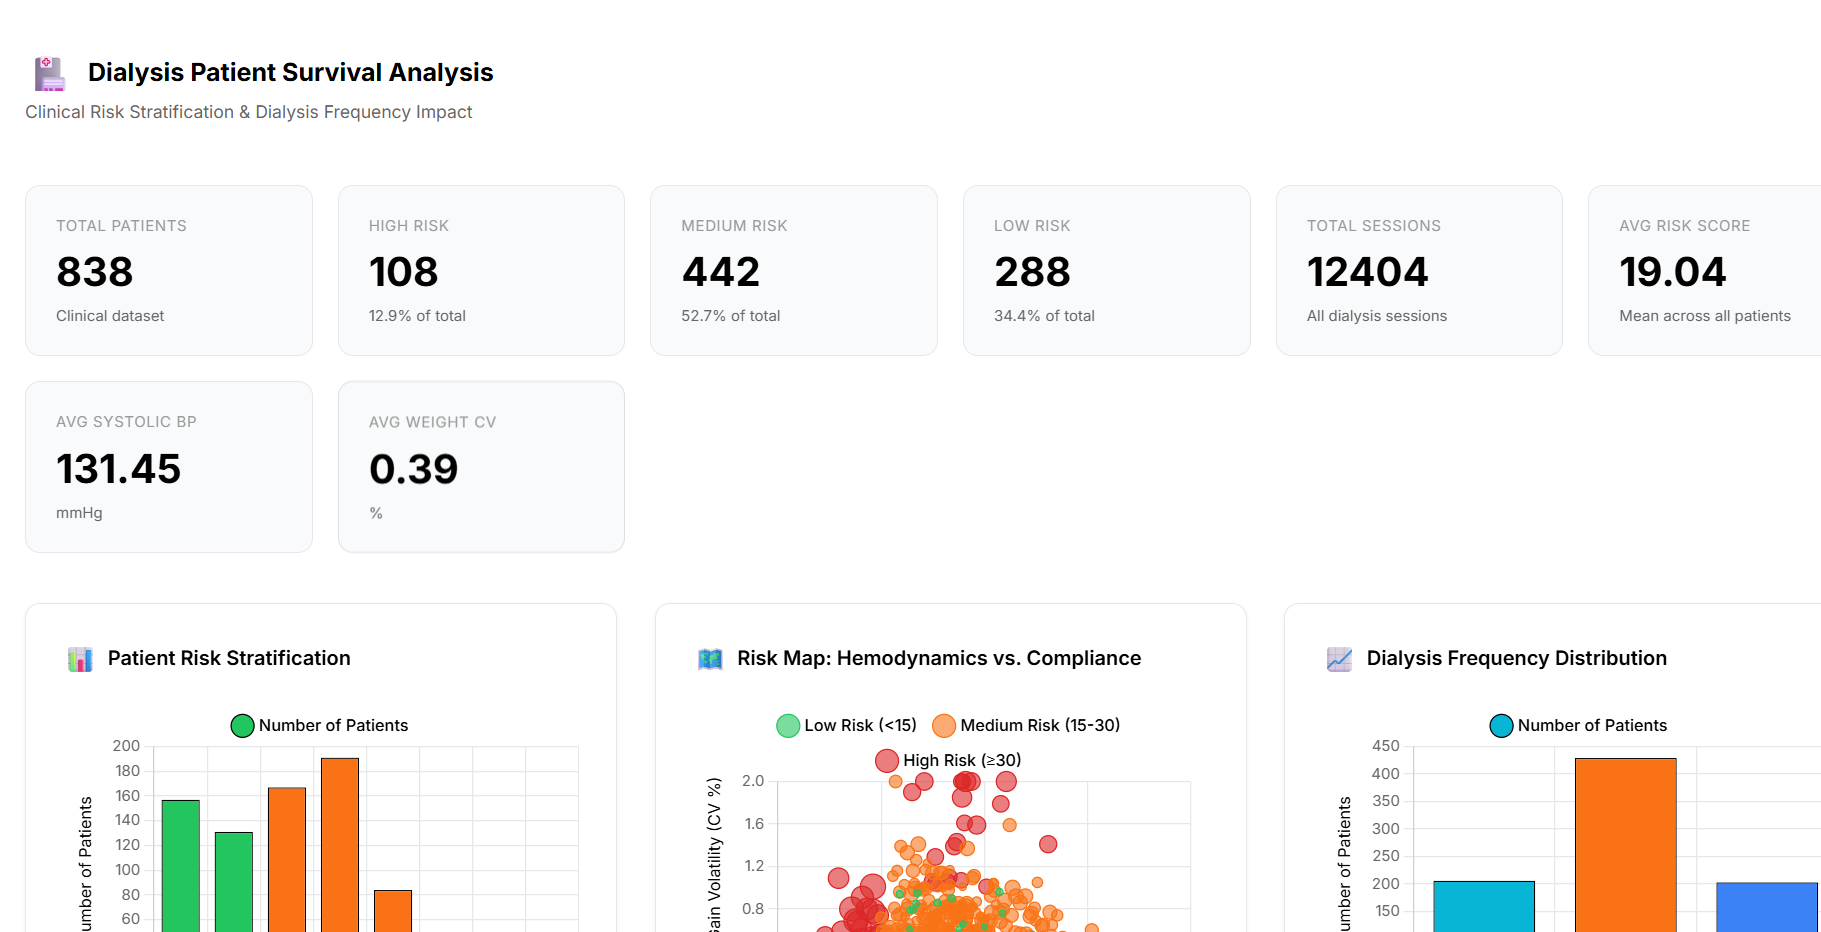
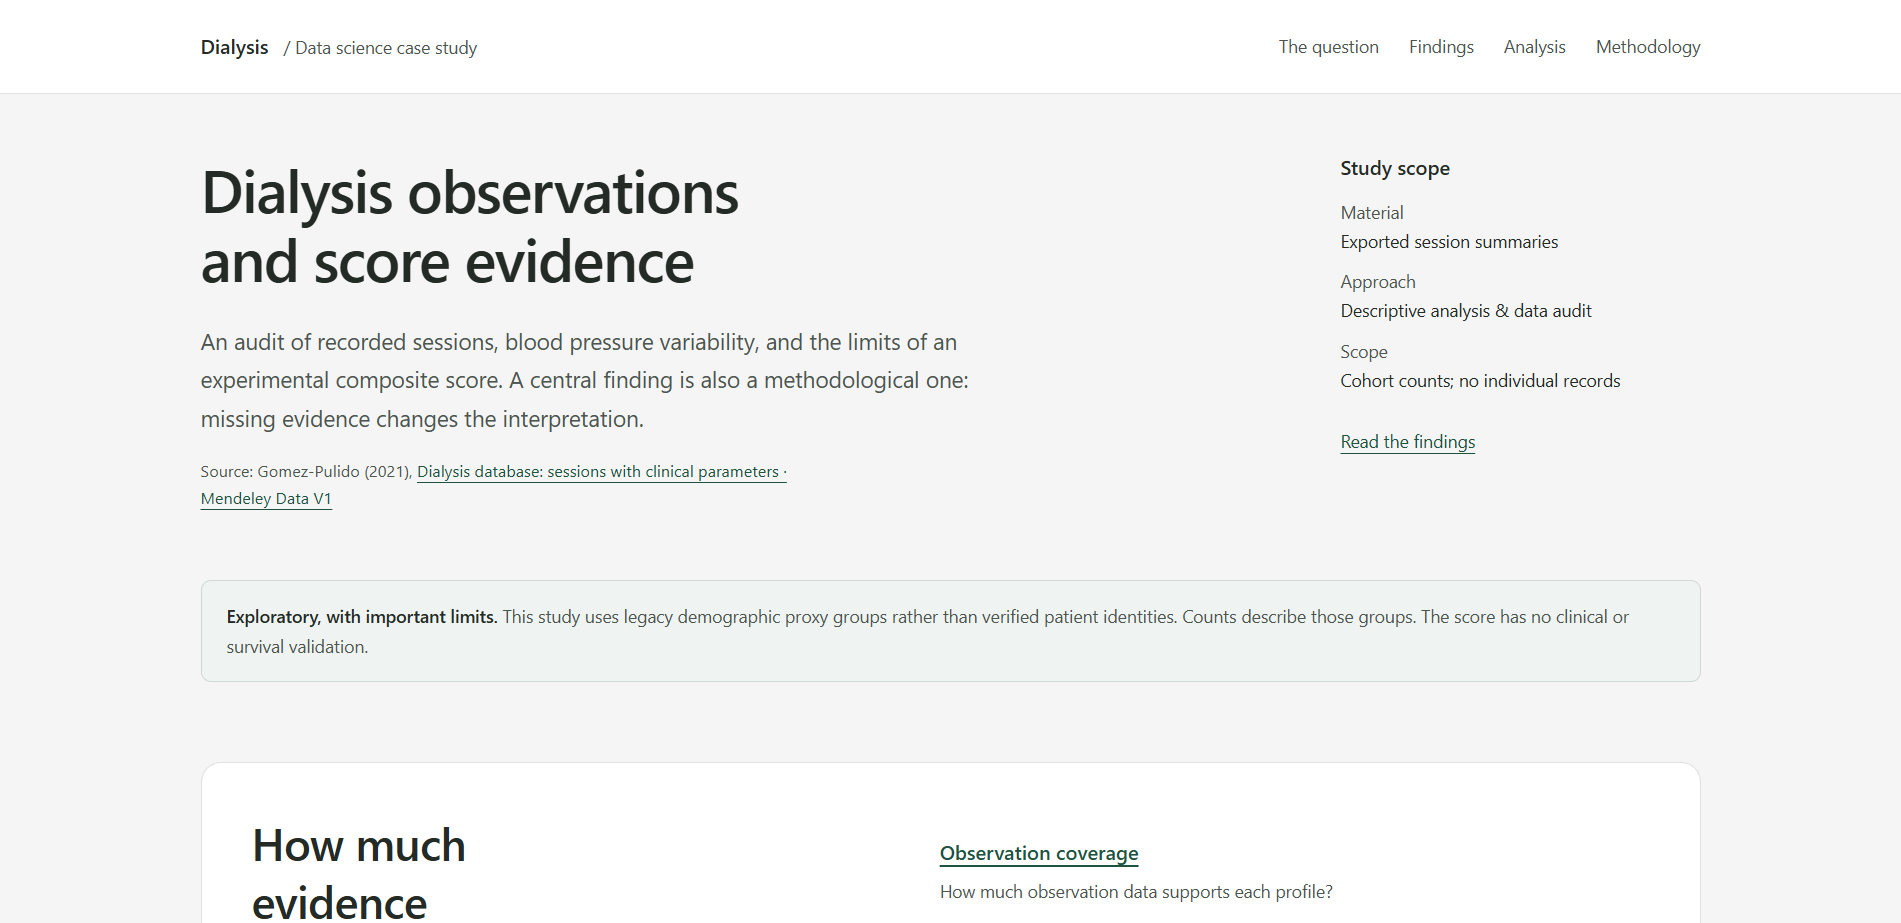
feat: revised projects

diff --git a/portfolio/src/components/projects.js b/portfolio/src/components/projects.js
@@ -78,26 +78,26 @@ const Projects = () => {
           </div>
         </article>
 
-        {/* gym management system */}
+        {/* hugo technology department ai chatbot management system */}
         <article className={styles.projectCard}>
           <div className={styles.projectContent}>
-            <h3>Gym Management System</h3>
+            <h3>Hugo AI Chatbot</h3>
             <p className={styles.tagline}>Fullstack</p>
             <p className={styles.description}>
-              Provided a system for a local gym within the city.
+              Developed a RAG-powered chatbot for the AWS Student Builder Group (AWSCC) website.
             </p>
             <div className={styles.techStack}>
-              <span>REACT</span>
-              <span>NODE</span>
+              <span>FastAPI</span>
+              <span>ML</span>
               <span>SUPABASE</span>
-              <span>VERCEL</span>
+              <span>PGVECTOR</span>
             </div>
             {/* project links */}
             <div className={styles.projectLinks}>
-              <a href="https://github.com/arianrhod-lala/gym-management" target="_blank" rel="noreferrer">
+              <a href="https://github.com/Hugo-Technology-Department/team-omega-project" target="_blank" rel="noreferrer">
                 <FiGithub />
               </a>
-              <a href="https://gym-management-red-tau.vercel.app/home" target="_blank" rel="noreferrer">
+              <a href="https://www.figma.com/design/5GkNc7BgAMRMRAmw3iw6pF/Untitled?node-id=0-1&p=f&t=6rngWOvs6lrV7q2Z-0" target="_blank" rel="noreferrer">
                 <FiExternalLink />
               </a>
             </div>
@@ -105,7 +105,7 @@ const Projects = () => {
           <div className={styles.projectImage}>
              {}
               <StaticImage 
-                src="../images/gym-management.png" 
+                src="../images/hugo.png" 
                 alt="Ian Lester"
                 placeholder="blurred"
                 className={styles.image}
